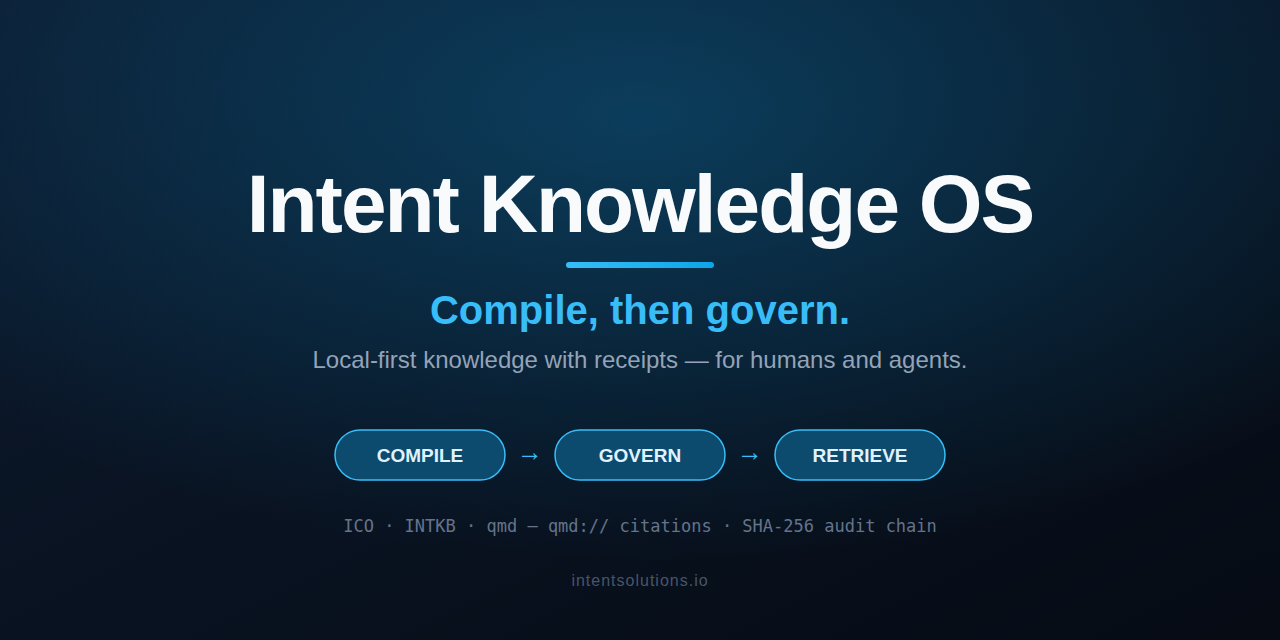
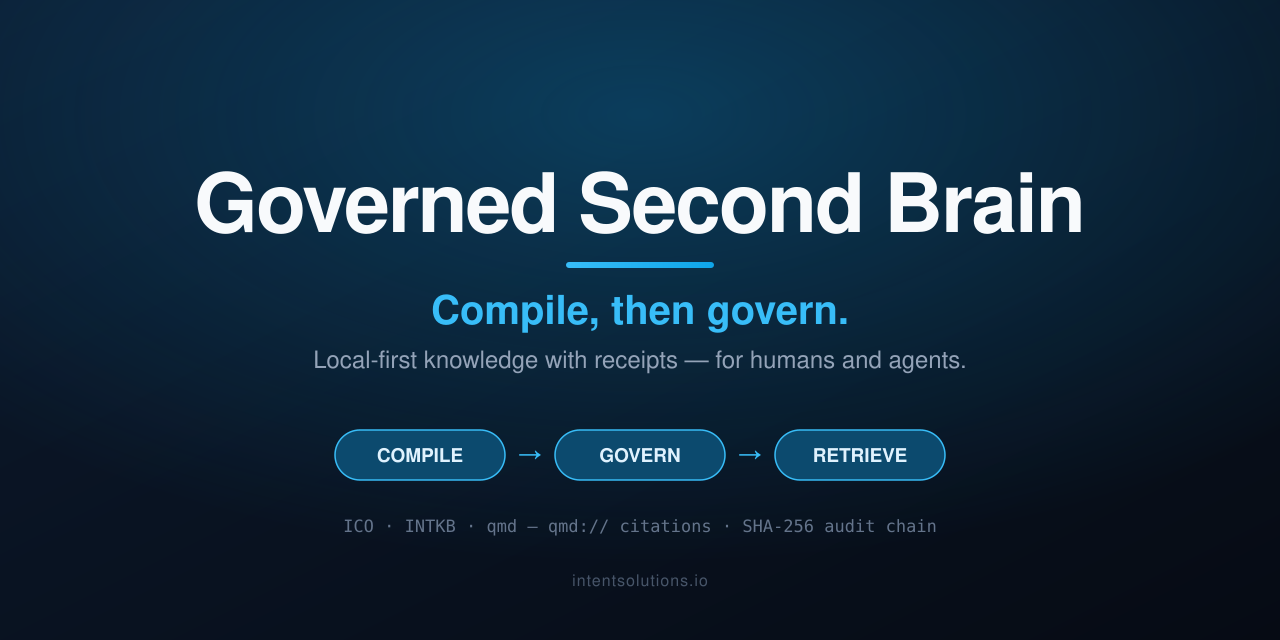
rebrand: Compile-Then-Govern umbrella → Governed Second Brain (Apache-2.0, honest audit claim)
Repo renamed intent-solutions-io/compile-then-govern → governed-second-brain
(GitHub auto-redirects the old URL).

- README / banner / CONTRIBUTING / CLAUDE: product name → "Governed Second Brain"
  (the method/thesis stays "compile, then govern"); add "local by default, remote
  sharing is your opt-in" framing.
- License: standardize on Apache-2.0 everywhere it was wrongly MIT — umbrella LICENSE
  (now mirrors ICO's Apache-2.0), README badge / status-table / License section.
  qmd stays MIT (tobi's upstream dependency).
- Status table: correct ICO version drift v1.10.0 → v1.12.0.
- Audit honesty (MUST-FIX #3): reword "proves nobody edited the record" → tamper-
  DETECTION; add a "What the receipt does not do" per-mode trust-model box (local =
  integrity + ordering; cross-actor non-repudiation needs the external chain-head
  anchor, on the roadmap). tamper-proof / immutable / non-repudiation / blockchain are
  explicitly disclaimed, never claimed.
- Assets: swap banner + social-card SVG title text, regenerate PNGs via rsvg-convert.

diff --git a/README.md b/README.md
@@ -1,20 +1,22 @@
 <p align="center">
   <picture>
     <source media="(prefers-color-scheme: dark)" srcset="assets/banner-dark.svg">
-    <img alt="Intent Knowledge OS — Compile, then govern. Local-first knowledge with receipts." src="assets/banner-light.svg" width="860">
+    <img alt="Governed Second Brain — local-first, citation-backed knowledge with receipts. Compile, then govern." src="assets/banner-light.svg" width="860">
   </picture>
 </p>
 
+<h1 align="center">Governed Second Brain</h1>
+
 <p align="center">
-  A local-first knowledge stack that turns raw corpus into <em>governed, citation-backed memory</em> — with receipts — for humans and agents.<br>
-  <em>Compile knowledge for the machine. Distill understanding for the human.</em>
+  Turn <em>your own</em> files into a governed, <code>qmd://</code>-cited second brain with a tamper-evident audit trail — for humans and agents.<br>
+  <strong>Compile, then govern.</strong> Local by default; remote sharing is your opt-in.
 </p>
 
 <p align="center">
   <a href="https://github.com/jeremylongshore/intentional-cognition-os/actions/workflows/ci.yml"><img src="https://github.com/jeremylongshore/intentional-cognition-os/actions/workflows/ci.yml/badge.svg" alt="ICO CI"></a>
   <a href="https://github.com/jeremylongshore/qmd-team-intent-kb/actions/workflows/ci.yml"><img src="https://github.com/jeremylongshore/qmd-team-intent-kb/actions/workflows/ci.yml/badge.svg" alt="INTKB CI"></a>
   <a href="https://www.npmjs.com/package/intentional-cognition-os"><img src="https://img.shields.io/npm/v/intentional-cognition-os?style=flat-square&logo=npm&label=ico" alt="ico on npm"></a>
-  <img src="https://img.shields.io/badge/License-MIT-10b981?style=flat-square" alt="License: MIT">
+  <img src="https://img.shields.io/badge/License-Apache--2.0-10b981?style=flat-square" alt="License: Apache-2.0">
   <img src="https://img.shields.io/badge/local--first-on--device-0ea5e9?style=flat-square" alt="local-first">
 </p>
 
@@ -26,7 +28,7 @@
 
 ---
 
-This repo is the umbrella for the **Compile-Then-Govern** constellation. Each component is its own independently developed and released repository under `jeremylongshore/*`; this repo is where we explain **what they are, what they do, how they stack, and why they beat the alternatives.** No application code lives here — just the map.
+This repo is the umbrella for the **Governed Second Brain** stack — local-first knowledge built on the *compile, then govern* architecture. Each component is its own independently developed and released repository; this repo is where we explain **what they are, what they do, how they stack, and why they beat the alternatives.** No application code lives here — just the map.
 
 ## The 60-second version
 
@@ -44,7 +46,7 @@ This stack is built around that gap.
 
 The category optimizes one axis: recall. We compete on a different one: **govern + receipts.**
 
-| Capability | Vector stores<br><sub>Pinecone · Chroma · pgvector</sub> | Agent-memory layers<br><sub>gstack/GBrain · Mem0 · Letta · Zep</sub> | **Compile-Then-Govern** |
+| Capability | Vector stores<br><sub>Pinecone · Chroma · pgvector</sub> | Agent-memory layers<br><sub>gstack/GBrain · Mem0 · Letta · Zep</sub> | **Governed Second Brain** |
 |---|:---:|:---:|:---:|
 | Recall / retrieval | ✅ | ✅ | ✅ |
 | **Derived** knowledge (summaries, concepts, contradictions) | ❌ raw chunks | ◑ extraction | ✅ 6 compiler passes |
@@ -61,14 +63,14 @@ The category optimizes one axis: recall. We compete on a different one: **govern
 
 **What we do better:** we don't hand the model a pile of similar chunks and hope. We *derive* knowledge, *govern* what's allowed to become durable memory with deterministic code, and *prove* every retrieval with a citation + an audit chain. The model proposes; the system decides and records.
 
-> **On gstack / GBrain.** [gstack](https://github.com/garrytan/gstack) (Garry Tan's Claude Code harness, ~90K★) ships [GBrain](https://github.com/garrytan/gstack) as its memory layer, and it's genuinely strong at the thing it's built for: recall — top LongMemEval-S scores, ~92% fewer tokens per session, near-zero-friction capture. That's the recall axis, done well. What a memory layer doesn't do — by design, it's memory, not a control plane — is gate what becomes durable knowledge through deterministic policy, or hand you a tamper-evident receipt of what the agent actually used. *"Better memory for agents, but no receipt for what the agent did with it"* was the exact critique that kicked off this project. Compile-Then-Govern is the answer: recall **and** governance **and** receipts.
+> **On gstack / GBrain.** [gstack](https://github.com/garrytan/gstack) (Garry Tan's Claude Code harness, ~90K★) ships [GBrain](https://github.com/garrytan/gstack) as its memory layer, and it's genuinely strong at the thing it's built for: recall — top LongMemEval-S scores, ~92% fewer tokens per session, near-zero-friction capture. That's the recall axis, done well. What a memory layer doesn't do — by design, it's memory, not a control plane — is gate what becomes durable knowledge through deterministic policy, or hand you a tamper-evident receipt of what the agent actually used. *"Better memory for agents, but no receipt for what the agent did with it"* was the exact critique that kicked off this project. The Governed Second Brain is the answer: recall **and** governance **and** receipts.
 
 ## What's in the stack
 
 | Repo | Layer | What it does |
 |------|-------|--------------|
-| **[intentional-cognition-os](https://github.com/jeremylongshore/intentional-cognition-os)** (`ico`) | **Compile** | Local-first knowledge OS. Ingests raw corpus (PDF / markdown / web clips) and compiles it into semantic knowledge through six passes, runs episodic research tasks, and emits a governance spool. Deterministic kernel (SQLite + JSONL) + probabilistic compiler (Claude). 5 workspace packages, MIT. |
-| **[qmd-team-intent-kb](https://github.com/jeremylongshore/qmd-team-intent-kb)** (INTKB) | **Govern** | Governed team-memory platform. Consumes ICO's spool, runs every candidate through dedupe → policy → promotion, keeps an append-only audit log, and exports curated memory to a searchable tree. The deterministic control plane. 6 apps + 8 packages, MIT. |
+| **[intentional-cognition-os](https://github.com/jeremylongshore/intentional-cognition-os)** (`ico`) | **Compile** | Local-first knowledge OS. Ingests raw corpus (PDF / markdown / web clips) and compiles it into semantic knowledge through six passes, runs episodic research tasks, and emits a governance spool. Deterministic kernel (SQLite + JSONL) + probabilistic compiler (Claude). 5 workspace packages, Apache-2.0. |
+| **[qmd-team-intent-kb](https://github.com/jeremylongshore/qmd-team-intent-kb)** (INTKB) | **Govern** | Governed team-memory platform. Consumes ICO's spool, runs every candidate through dedupe → policy → promotion, keeps an append-only audit log, and exports curated memory to a searchable tree. The deterministic control plane. 6 apps + 8 packages, Apache-2.0. |
 | **[qmd](https://github.com/tobi/qmd)** (`@tobilu/qmd`) | **Retrieve** | On-device hybrid search for markdown — BM25 + vector + LLM reranking, by [@tobi](https://github.com/tobi). The retrieval substrate. Every hit is a `qmd://<collection>/<path>` URI — the citation. |
 
 ## How it works
@@ -183,7 +185,19 @@ $ ico audit verify --json
 { "ok": true, "filesScanned": 1, "totalEvents": 61, "cleanFiles": 1, "breaks": [] }
 ```
 
-That's the receipt. A vector store can tell you what's *similar*. This tells you what was *used*, where it *came from*, and proves *nobody edited the record*.
+That's the receipt. A vector store can tell you what's *similar*. This tells you what was *used* and where it *came from* — and the hash chain **detects** any record altered or reordered after the fact.
+
+### What the receipt does *not* do — read this before you trust it
+
+Honesty is the whole point of a receipt, so here's the trust model, stated per mode:
+
+| | **Local mode** (default) | **Shared / hosted mode** (your opt-in) |
+|---|---|---|
+| Guarantees | **Integrity + ordering** — detects edits, deletions, and reordering of any event after it was written | Adds **attributable, externally anchored** history once the chain head is signed/anchored |
+| Does **not** guarantee | Non-repudiation on its own: a determined local actor with write access can edit an event *and* re-hash the chain forward, and verification passes again | — |
+| How that gap is closed | **Anchor the chain head externally** (sign it via `git-exporter`, or stamp it with OpenTimestamps) so a silent full-rewrite is detectable too — on the roadmap, gated *before* any cross-actor "tamper-evident" claim ships | Anchored chain head + per-actor signatures |
+
+So: *tamper-**evident**, not tamper-proof.* The chain proves a record wasn't *quietly* changed; it is **not** a blockchain, it is **not** immutable storage, and on its own it does **not** prove *who* wrote what. Within a single trust boundary — your machine — that integrity-and-ordering guarantee is exactly what you want. Across actors, the external anchor is what upgrades detection into attribution.
 
 ## Is it real? — the proof
 
@@ -216,8 +230,8 @@ For the full chain (including ICO's compile step) set `ANTHROPIC_API_KEY` and ru
 
 | Repo | Version | License |
 |------|---------|---------|
-| [intentional-cognition-os](https://github.com/jeremylongshore/intentional-cognition-os) | v1.10.0 | MIT |
-| [qmd-team-intent-kb](https://github.com/jeremylongshore/qmd-team-intent-kb) | v0.6.0 | MIT |
+| [intentional-cognition-os](https://github.com/jeremylongshore/intentional-cognition-os) | v1.12.0 | Apache-2.0 |
+| [qmd-team-intent-kb](https://github.com/jeremylongshore/qmd-team-intent-kb) | v0.6.0 | Apache-2.0 |
 | [qmd](https://github.com/tobi/qmd) (upstream dependency) | 2.5.3 — pinned · Dependabot-tracked · integration-test-gated | MIT |
 
 ## Documentation
@@ -228,7 +242,7 @@ For the full chain (including ICO's compile step) set `ANTHROPIC_API_KEY` and ru
 
 ## License
 
-MIT on both flagship repos and this umbrella. See each repo's `LICENSE`.
+Apache-2.0 on both flagship repos and this umbrella. See each repo's `LICENSE`. (qmd, the upstream retrieval dependency, is MIT-licensed by its author, [@tobi](https://github.com/tobi).)
 
 ---
 

diff --git a/CLAUDE.md b/CLAUDE.md
@@ -4,7 +4,10 @@ This file provides guidance to Claude Code (claude.ai/code) when working with co
 
 ## What This Is
 
-The **umbrella / landing repo** for the **Compile-Then-Govern** constellation. It contains
+The **umbrella / landing repo** for **Governed Second Brain** — the local-first knowledge stack
+built on the *compile, then govern* architecture. (Renamed from `compile-then-govern` on
[phone redacted]; the GitHub repo is now `intent-solutions-io/governed-second-brain` and the old URL
+auto-redirects. The local working directory is still `compile-then-govern/`.) It contains
 ecosystem-level documentation only — **no application code, no build, no tests, no lint.** The
 entire repo is `README.md` plus a handful of governance files (`CONTRIBUTING.md`, `SECURITY.md`,
 `LICENSE`) and `assets/` (banner + social-card SVG/PNG). `.github/` is intentionally empty (CI
@@ -48,6 +51,14 @@ When editing the README, preserve this framing: the competitive axis is **govern
 not recall. Don't soften "deterministic," "append-only," or "hash-chained" into vague
 memory-marketing language — the precision is the point.
 
+Equally, don't *over*claim. The chain is tamper-**evident** (detection of edits/reordering),
+**not** tamper-proof: a local writer with write access can edit an event *and* re-hash the chain
+forward, and `ico audit verify` passes again. So the README carries a "What the receipt does
+*not* do" trust-model box — local = integrity + ordering; cross-actor non-repudiation needs the
+external chain-head anchor (sign via `git-exporter` / OpenTimestamps), which is on the roadmap and
+gated before any cross-actor "tamper-evident" claim. Keep that box honest. **Forbidden words:**
+tamper-proof, immutable, non-repudiation (for local mode), blockchain.
+
 ## Editing Conventions
 
 - **Mermaid + dual-theme SVG banners**: the README embeds two Mermaid diagrams (a sequence flow
@@ -55,8 +66,11 @@ memory-marketing language — the precision is the point.
   `<picture>`-switched dark/light banner. After editing either, verify rendering on the GitHub
   web view — there is no local preview build.
 - **Assets are committed binaries/SVG** in `assets/`. The banner exists as both `.svg` (source of
-  truth, referenced by the README) and `.png` (2x raster fallback); `social-card.*` is the
-  1280×640 GitHub social preview. Regenerate the PNGs if the SVG changes.
+  truth, referenced by the README) and `.png` (2x raster fallback, 2400×680); `social-card.*` is the
+  1280×640 GitHub social preview. The SVGs carry live `<text>` — the product title is editable text,
+  not outlined paths. Regenerate the PNGs if the SVG changes with **`rsvg-convert`** (NOT ImageMagick
+  `convert`, whose internal renderer mangles the SVG fonts/gradients):
+  `rsvg-convert -w 2400 -h 680 banner-dark.svg -o banner-dark.png` (social-card uses `-w 1280 -h 640`).
 - **The thesis doc is byte-identical across repos**: *"Compile, Then Govern"* lives at
   `000-docs/034-AT-NTRP-ecosystem-thesis.md` in **both** flagships (not in this repo). If a claim
   in this README is sourced from it, keep them consistent.

diff --git a/CONTRIBUTING.md b/CONTRIBUTING.md
@@ -1,7 +1,8 @@
 # Contributing
 
-This repository is the **umbrella / landing** for the Compile-Then-Govern stack. It holds
-ecosystem-level documentation only — there is no application code here.
+This repository is the **umbrella / landing** for the **Governed Second Brain** stack (built on
+the *compile, then govern* architecture). It holds ecosystem-level documentation only — there is
+no application code here.
 
 Work happens in the flagship repos:
 